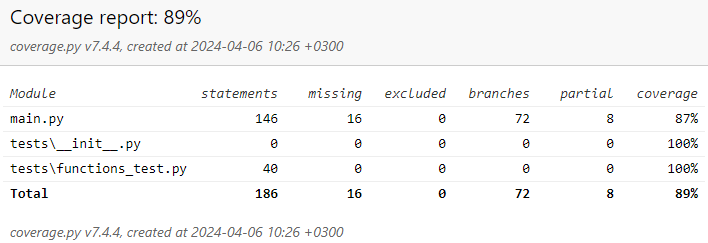
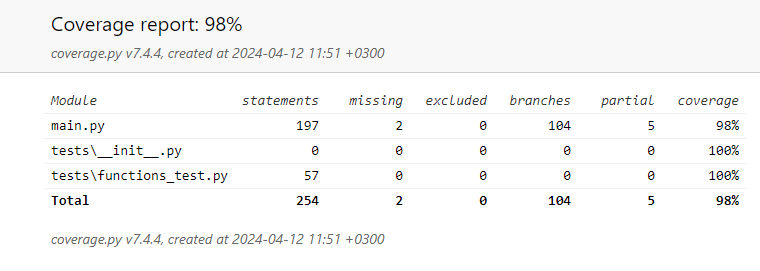
Viikko 4 - syvyyshaun lisääminen ja dokumentaatio

diff --git a/main.py b/main.py
@@ -125,11 +125,11 @@ def shared_edge(edge, triangles):
                 tricount += 1
     return tricount
 
-def delaunay(points, x, y):
-    """Suorittaa Delaunayn triangulaation annetuille pisteille.
+def delaunay(pointslist, x, y):
+    """Suorittaa Delaunayn triangulaation annetuille pisteille Bowyer-Watson algoritmilla.
 
     Args:
-        points (list): Lista pisteitä.
+        pointslist (list): Lista pisteitä.
         x (int): Max x-koordinaatti.
         y (int): Max y-koordinaatti.
 
@@ -139,7 +139,7 @@ def delaunay(points, x, y):
     triangulation = []
     triangulation.append(add_super_triangle(x, y))
 
-    for point in points:
+    for point in pointslist:
         bad_triangles = set()
         for triangle in triangulation:
             if inside_circumcircle(point, triangle):
@@ -183,12 +183,92 @@ def generate_rooms(pointlist:list, min_dist:int):
         square = pygame.Rect(x - side_length/2, y - side_length/2, side_length, side_length)
         roomlist.append(square)
         if RUNNING:
-            pygame.draw.rect(window, blue, square, 5)
+            pygame.draw.rect(window, yellow, square, 5)
             pygame.time.wait(int(NPOINTS*2.5))
             pygame.display.update()
     return roomlist
 
-# Parameters
+def generate_start_point(pointslist:list, x:int, y:int, min_dist:int):
+    """Antaa satunnaisen alkupisteen listasta siten, että piste on lähellä kahta 2d-tason kulmaa.
+
+    Args:
+        pointslist (list): Lista pisteitä.
+        x (int): Suurin sallittu x-koordinaatti.
+        y (int): Suurin sallittu y-koordinaatti.
+        min_dist (int): Pienin sallittu etäisyys pisteiden ja reunojen välillä.
+
+    Returns:
+        _type_: Satunnainen alkupiste.
+    """
+    start_points = []
+    dist = int(min_dist*1.2)
+    startx = random.choice([0, x])
+    starty = random.choice([0, y])
+
+    while not start_points:
+        for px in pointslist:
+            if abs(px[0]-startx) < int(dist) and abs(px[1]-starty) < int(dist) and not start_points:
+                start_points.append(px)
+
+        if start_points:
+            return random.choice(start_points)
+        
+        dist += min_dist*0.2
+    return random.choice(pointslist)
+
+def get_neighbors(point, triangleslist):
+    """Tarkistaa listasta kolmioita mitkä pisteet ovat yhteydessä annettuun pisteeseen (naapurit).
+
+    Args:
+        point (point): Piste.
+        triangleslist (list): Lista kolmioita.
+
+    Returns:
+        neighborslist: Lista annetun pisteen naapureita.
+    """
+    neighborslist = []
+    for tr in triangleslist:
+        if point in tr:
+            for neighbor in tr:
+                if neighbor != point and neighbor not in neighborslist:
+                    neighborslist.append(neighbor)
+
+    return neighborslist
+
+def dfs(current_p, visited, triangleslist):
+    """Syvyyshaku joka merkkaa pisteen ja jatkaa hakua naapureihin, jos niissä ei ole vierailtu.
+
+    Args:
+        current_p (point): Tämänhetkinen piste.
+        visited (point): Lista jo vierailluista pisteistä.
+        triangleslist (list): Lista kolmioita josta löydetään pisteiden väliset sivut.
+    """
+    neighbors = []
+    visited.append(current_p)
+    for neighbor in get_neighbors(current_p, triangleslist):
+        neighbors.append(neighbor)
+
+    for n in neighbors:
+        if n not in visited:
+            dfs(n, visited, triangleslist)
+
+def pathing(triangleslist, startpoint):
+    """Aloittaa syvyyshaun annetusta pisteestä ja käy läpi kaikki listasta löytyvät pisteet.
+
+    Args:
+        triangleslist (list): Lista kolmioita.
+        startpoint (point): Aloituspiste.
+
+    Returns:
+        visited: Järjestyksessä oleva polku joka käy kaikki pisteet läpi.
+    """
+    visited = []
+    dfs(startpoint, visited, triangleslist)
+
+    return visited
+
+
+# Parameters and initialization
 NPOINTS = 20
 X_MAX = 800
 Y_MAX = 800
@@ -197,6 +277,9 @@ points = generate_points(NPOINTS, X_MAX, Y_MAX, MIN_DISTANCE)
 #rooms = generate_rooms(points, MIN_DISTANCE)
 rooms = []
 triangulation = delaunay(points, X_MAX, Y_MAX)
+start_point = generate_start_point(points, X_MAX, Y_MAX, MIN_DISTANCE)
+#corridors = pathing(triangulation, start_point, end_point)
+corridors = []
 
 # Visualization
 pygame.init()
@@ -207,6 +290,8 @@ white = (255, 255, 255)
 black = (0, 0, 0)
 red = (255, 0, 0)
 blue = (0, 0, 255)
+yellow = (255, 255, 0)
+green = (0, 255, 0)
 
 RUNNING = True
 while RUNNING:
@@ -218,26 +303,41 @@ while RUNNING:
                 RUNNING = False
             elif event.key == pygame.K_r:
                 points = generate_points(NPOINTS, X_MAX, Y_MAX, MIN_DISTANCE)
-                #print("List of points: ", points, len(points))
                 triangulation = delaunay(points, X_MAX, Y_MAX)
-                #print("Delaunay: ", triangulation)
+                start_point = generate_start_point(points, X_MAX, Y_MAX, MIN_DISTANCE)
                 rooms = []
-            elif event.key == pygame.K_g:
+                corridors = []
+            elif event.key == pygame.K_g and not rooms:
                 rooms = generate_rooms(points, MIN_DISTANCE)
+            elif event.key == pygame.K_c and not corridors:
+                corridors = pathing(triangulation, start_point)
+                triangulation = []
+            elif event.key == pygame.K_p:
+                print("Points: ", points, "\n", flush=True)
+                print("Delaunay triangulation: ", triangulation, "\n", flush=True)
+                print("Start point: ", start_point, "\n", flush=True)
+                if rooms:
+                    print("Rooms: ", rooms, "\n", flush=True)
+                if corridors:
+                    print("Corridors: ", corridors, "\n", flush=True)
+
     window.fill(black)
 
     for p in points:
         pygame.draw.circle(window, red, p, 2)
 
     for r in rooms:
-        pygame.draw.rect(window, blue, r, 5)
+        pygame.draw.rect(window, yellow, r, 5)
 
     for t in triangulation:
         pygame.draw.polygon(window, white, t, 1)
         for vertex in t:
             pygame.draw.circle(window, red, vertex, 3)
 
+    for i in range(len(corridors)-1):
+        pygame.draw.line(window, green, corridors[i], corridors[i+1], 2)
 
+    pygame.draw.circle(window, blue, start_point, 5)
 
     pygame.display.flip()
 

diff --git a/tests/functions_test.py b/tests/functions_test.py
@@ -11,8 +11,8 @@ class TestFunctions(unittest.TestCase):
 
     def test_generate_points(self):
         testpoints = generate_points(3, 100, 100, 10)
-        self.assertLess(testpoints[0][0], (90))
-        self.assertLess(testpoints[1][1], (90))
+        self.assertLess(testpoints[0][0], (95))
+        self.assertLess(testpoints[1][1], (95))
         self.assertGreater(distance(testpoints[0], testpoints[1]), 10)
 
     def test_add_super_triangle(self):
@@ -21,20 +21,25 @@ class TestFunctions(unittest.TestCase):
 
     def test_is_collinear(self):
         testpoints = ((1, 2), (2, 4), (3, 6))
+        testpoints2 = ((1, 3), (2, 4), (3, 6))
         self.assertTrue(is_collinear(testpoints[0], testpoints[1], testpoints[2]))
-
-        testpoints = ((1, 3), (2, 4), (3, 6))
-        self.assertFalse(is_collinear(testpoints[0], testpoints[1], testpoints[2]))
+        self.assertFalse(is_collinear(testpoints2[0], testpoints2[1], testpoints2[2]))
 
     def test_circumcircle(self):
         triangletest = ((3, 3), (4, 4), (5, 3.5))
+        triangletest2 = ((1, 2), (2, 3), (2, 3))
+        triangletest3 = ((0, 1), (2, 3), (3, 3))
         self.assertAlmostEqual(circumcircle(*triangletest)[0][0], 4.083333333)
         self.assertAlmostEqual(circumcircle(*triangletest)[0][1], 2.916666667)
+        self.assertEqual(circumcircle(*triangletest2)[0], None)
+        self.assertEqual(circumcircle(*triangletest2)[1], None)
+        self.assertAlmostEqual(circumcircle(*triangletest3)[1], 2.549509756796)
 
     def test_inside_circumcircle(self):
         testtriangle = ((1, 1), (3, 1), (3, 3))
         self.assertTrue(inside_circumcircle((2, 1.5), testtriangle))
         self.assertFalse(inside_circumcircle((3, 3.5), testtriangle))
+        self.assertFalse(inside_circumcircle((0, 0), ((1, 2), (2, 4), (3, 6))))
 
     def test_get_edges(self):
         testtriangle = ((1,1), (2, 2), (3,5))
@@ -50,4 +55,17 @@ class TestFunctions(unittest.TestCase):
         testpoints = [(319, 159), (753, 464), (186, 783), (681, 584), (459, 169)]
         testdistance = 10
         testrooms = generate_rooms(testpoints, testdistance)
-        self.assertEqual(len(testrooms), 5)     #Löydä parempi testi.
+        self.assertEqual(len(testrooms), 5)     #Paranna testiä.
+
+    def test_generate_start_point(self):
+        testpoints = [(11, 11), (777, 11), (11, 777), (777, 777), (600, 666), (555, 543), (25, 75), (75, 25), (600, 200), (799, 500), (599, 50), (50, 600), (432, 123), (321, 567), (765, 350), (222, 666)]
+        testdistance = 10
+        teststartpoint = generate_start_point(testpoints, 800, 800, testdistance)
+        testexamples = [(11, 11), (777, 11), (11, 777), (777, 777)]
+        self.assertTrue(teststartpoint in testexamples)
+
+    def test_pathing(self):
+        teststart = (0, 0)
+        testtriangles = [((0, 0), (1, 1), (2, 4)), ((1, 1), (3, 1), (3, 3)), ((2, 2), (3, 1), (3, 3))]
+        testpath = pathing(testtriangles, teststart)
+        self.assertEqual(len(testpath), 6)      #Paranna testiä.

diff --git a/tasks.py b/tasks.py
@@ -1,0 +1,22 @@
+from invoke import task
+
+@task
+def start(ctx):
+    ctx.run("python main.py")
+
+@task
+def test(ctx):
+    ctx.run("pytest")
+
+@task
+def coverage(ctx):
+    ctx.run("coverage run --branch -m pytest")
+    ctx.run("coverage report -m")
+
+@task
+def coverage_report(ctx):
+    ctx.run("coverage html")
+
+@task
+def lint(ctx):
+    ctx.run("pylint main")

diff --git a/Dokumentaatio/Toteutusdokumentti.md b/Dokumentaatio/Toteutusdokumentti.md
@@ -1,0 +1,20 @@
+# Toteutusdokumentti  
+
+## Ohjelman rakenne  
+
+Sovellus suorittaa Delaunayn triangulaation käyttäen Bowyer-Watsonin algoritmia satunnaisille pisteille sekä luo polun pisteiden läpi syvyyshakua käyttäen. Ohjelma sisältää funktiot näille algoritmeille sekä paljon apufunktioita tarkistamaan että syöte on oikeanlainen ja haluttu tulos on mahdollinen. Sitten ohjelma alustaa satunnaiset muuttujat ja avaa pygame-ikkunan visualisoimaan tuotettua tulosta. Tietyillä näppäimillä voi ohjelmassa muuttaa näkymää.  
+
+
+## Aikavaativuudet  
+
+## Työn puutteita ja parannusehdotuksia  
+
+## Laajojen kielimallien käyttö  
+
+Työssä ei ole käytetty laajoja kielimalleja. *Huom. Joillain verkkosivuilla jotka sisältävät käyttäjien kysymyksia ja vastauksia, joskus tarjotaan laajan kielimallin generoima vastaus ja se voi jopa näkyä Google-hakusivulla ennen käyttäjien kirjoittamia vastauksia.*  
+
+## Viitteet  
+[Vazgriz - Procedurally Generated Dungeons](https://vazgriz.com/119/procedurally-generated-dungeons)  
+[Tom Stephenson - Creating Simple Procedural Dungeon Generation](https://www.tomstephensondeveloper.co.uk/post/creating-simple-procedural-dungeon-generation)  
+[Gorilla Sun - Bowyer-Watson Algorithm for Delaunay Triangulation](https://www.gorillasun.de/blog/bowyer-watson-algorithm-for-delaunay-triangulation/)  
+[Wikipedia - Bowyer-Watson Algorithm](https://en.wikipedia.org/wiki/Bowyer%E2%80%93Watson_algorithm)  

diff --git a/Dokumentaatio/Viikkoraportti4.md b/Dokumentaatio/Viikkoraportti4.md
@@ -1,0 +1,17 @@
+# Viikkoraportti 4
+
+Tällä viikolla olen lisännyt syvyyshaun koodiin. Se luo polun pisteiden läpi hyödyntäen Bowyer-Watson algoritmin generoimaa Delaunayn triangulaatiota ja käy jokaisen pisteen (tai huoneen) läpi käymättä samassa pisteessä kahdesti. Lisäsin myös koodia valitsemaan aloitushuoneen joka on lähellä satunnaisesti valittua kulmaa.  
+
+Lisäsin komentoja ohjelmaan, C = generoi käytävät ja P = printtaa muuttujat.  
+
+Paransin testikattavuutta laajaksi, mutta osa testeistä on vielä parannettavissa. Vaikka testikattavuus saa 98%, osa kattavuudesta taitaa tulla vain ohjelman käynnistämisestä. Aion korjata tämän seuraavilla viikoilla.  
+
+Poistin lint-ongelmia mutta niitä on yhä muutama jäljellä. Lisäsin projektiin invoken ja invoke-taskeja helpompia komentoja varten.   
+
+Aloitin toteutusdokumentin.  
+
+Opin tällä viikolla syvyyshakualgoritmin toimintaa paremmin. Vaikka se oli ennestään tuttu, sen oikein ottaminen käyttöön silti vaatii jonkin verran huolellisuutta.  
+
+Seuraavaksi alan täydentämään dokumentaatiota laajemmin ja parantamaan osaa testeistä. Pohdin vielä mikä olisi paras tapa osittaa koodia ettei main-tiedosto ole liian laaja ja mahdollisesti parannan vielä käytävien luovaa koodia.  
+
+Olen käyttänyt tällä viikolla aikaa projektiin noin 11 tuntia.   

diff --git a/README.md b/README.md
@@ -4,19 +4,40 @@ Ohjelma suorittaa Delaunayn triangulaation käyttäen Bowyer-Watsonin algoritmia
 ESC = Sulje ohjelma.  
 R = Uudelleengeneroi triangulaatio.  
 G = Generoi huoneet.  
+C = Generoi käytävät.  
+P = Tulosta muuttujat.  
+
+## Käynnistys  
+
+Asenna riippuvuudet:  
+```
+poetry install
+```
+
+Käynnistä sovellus:  
+```
+poetry run invoke start
+```
+
 
 ## Testaus  
 
-Avaa virtuaaliympäristö:
-```
-poetry shell
-```
 
 Aja testit:  
 ```
-pytest
+poetry run invoke test
 ```
 
-## Viikko 3  
+Testikattavuus:  
+```
+poetry run invoke coverage
+```
 
-[Viikkoraportti 3](/Dokumentaatio/Viikkoraportti3.md)  
+Kattavuusraportti:  
+```
+poetry run invoke coverage-report
+```
+
+## Viikko 4  
+
+[Viikkoraportti 4](/Dokumentaatio/Viikkoraportti4.md)  
